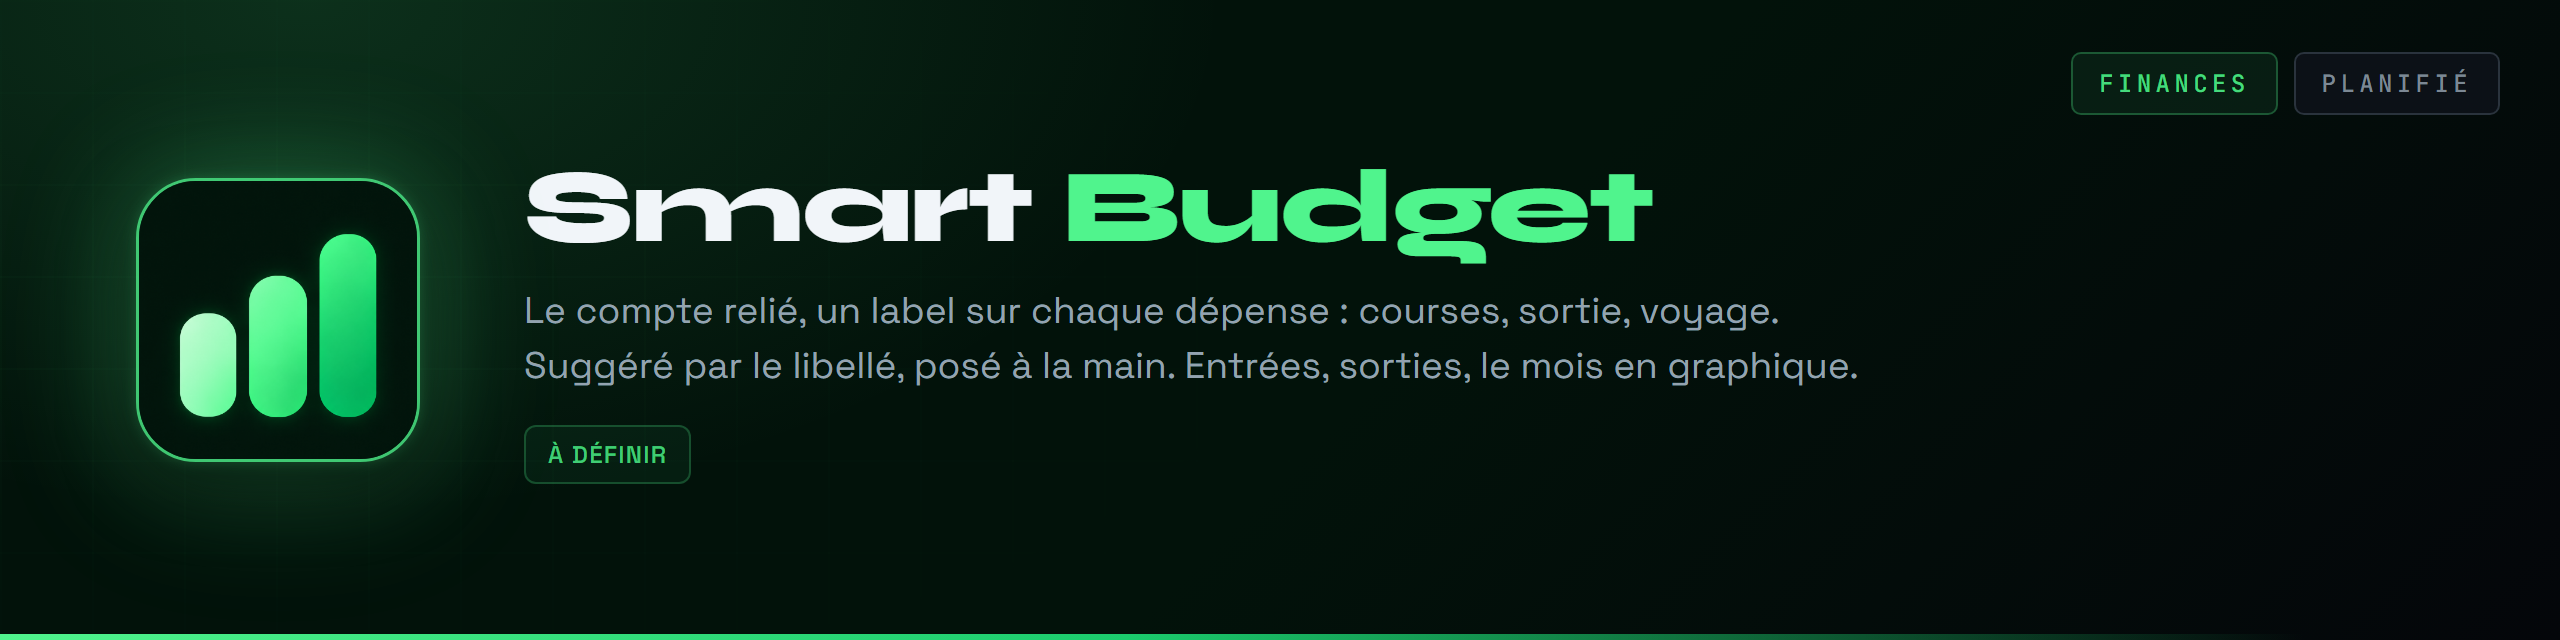
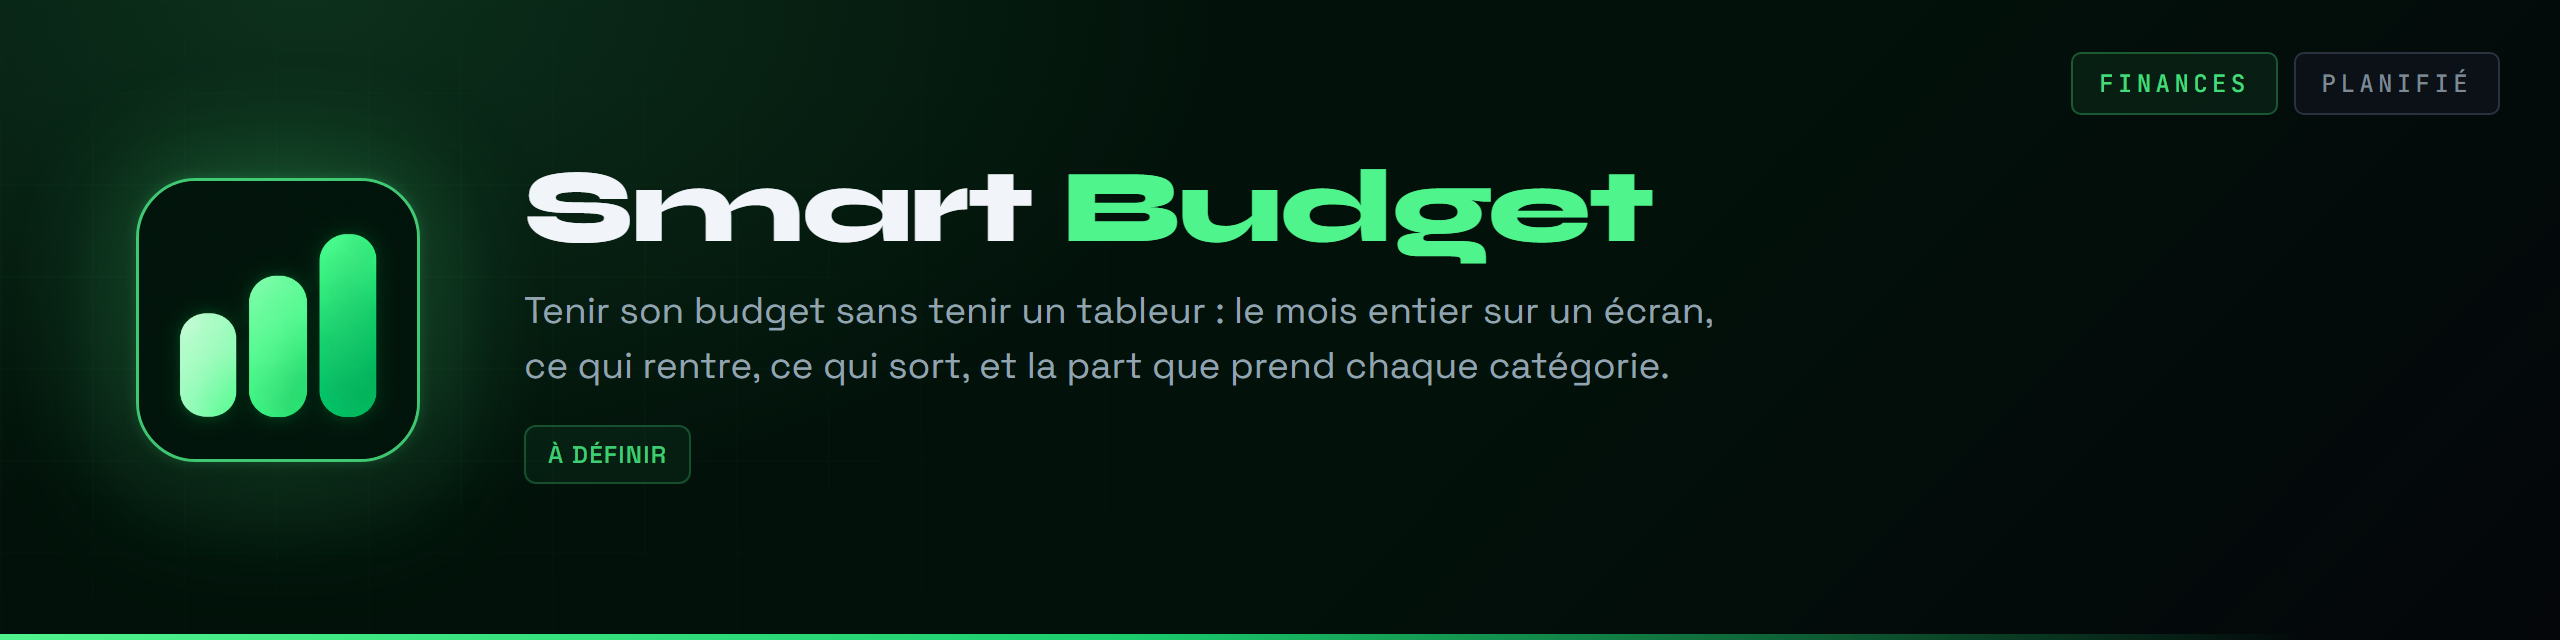
docs: Smart Budget dit ce qu'il apporte, pas comment il marche
Les versions précédentes décrivaient la mécanique : le compte relié, le
label posé, le libellé qui suggère. Personne ne choisit un outil pour sa
plomberie. La carte nomme donc la contrainte qu'il fait disparaître, le
tableur qu'on ne tient jamais, puis ce qu'on voit à la place.

Claude-Session: https://claude.ai/code/session_011hwWL8vXtMznbtwVp8pGZK

Changed region(s): [[0.1875, 0.4688, 0.7188, 0.625]]

diff --git a/README.md b/README.md
@@ -39,7 +39,7 @@ Je m'intéresse aux postes en **cybersécurité**, **infrastructure**, **sécuri
 <a href="https://github.com/Cybertrist/KyrlCut"><img src="docs/projets/kyrlcut.png" alt="KyrlCut, prise de rendez-vous pour un salon de coiffure, dépôt privé" width="49.8%"></a><a href="https://github.com/Cybertrist/BodyCount"><img src="docs/projets/bodycount.png" alt="BodyCount, suivi de séances de sport" width="49.8%"></a>
 <a href="https://github.com/Cybertrist/GoMuscu"><img src="docs/projets/gomuscu.png" alt="GoMuscu, bot Discord qui suit les séances de la salle, tient les comptes et relance ceux qui sèchent" width="49.8%"></a><a href="https://github.com/Cybertrist/Basicfit-Coach"><img src="docs/projets/bf-coach.png" alt="Basic-Fit Coach, bot Discord privé qui lit l'export de compte Basic-Fit, heatmap, séries et horaires, et sept calculs de salle" width="49.8%"></a>
 <a href="https://github.com/Cybertrist/Basicfit-Securite"><img src="docs/projets/bf-securite.png" alt="Basic-Fit Sécurité, bot Discord privé de modération, douze commandes et un rôle de mute défini depuis Discord" width="49.8%"></a><a href="https://github.com/Cybertrist/Basicfit-Manager"><img src="docs/projets/bf-manager.png" alt="Basic-Fit Manager, bot Discord privé d'accueil et de billetterie, tickets ouverts au menu, rôle donné à l'arrivée, guide en message privé" width="49.8%"></a>
-<img src="docs/projets/cybersas.png" alt="CyberSas, réseau, en cours. Reverse proxy et VPN auto-hébergés : un point d'entrée unique, terminaison TLS, et un tunnel privé pour le reste" width="49.8%"><img src="docs/projets/smartbudget.png" alt="Smart Budget, finances, planifié. Le compte relié, un label sur chaque dépense : courses, sortie, voyage. Suggéré par le libellé, posé à la main. Entrées, sorties, le mois en graphique" width="49.8%">
+<img src="docs/projets/cybersas.png" alt="CyberSas, réseau, en cours. Reverse proxy et VPN auto-hébergés : un point d'entrée unique, terminaison TLS, et un tunnel privé pour le reste" width="49.8%"><img src="docs/projets/smartbudget.png" alt="Smart Budget, finances, planifié. Tenir son budget sans tenir un tableur : le mois entier sur un écran, ce qui rentre, ce qui sort, et la part que prend chaque catégorie" width="49.8%">
 </p>
 
 <img src="docs/notes/prive.png" alt="Dépôts privés. KyrlCut est un livrable client, son code appartient à celui qui l'a commandé. Les trois bots Basic-Fit servent un vrai serveur Discord et lisent des exports de compte : identifiants de salons et données personnelles n'ont rien à faire en public. Leurs cartes mènent bien au dépôt, mais GitHub répondra 404 à qui n'y a pas accès. Chaque bannière porte sa catégorie, et son état quand le dépôt n'existe pas encore." width="100%">
@@ -48,7 +48,7 @@ Je m'intéresse aux postes en **cybersécurité**, **infrastructure**, **sécuri
 
 <img src="docs/chantier/cybersas.png" alt="CyberSas, reverse proxy et VPN auto-hébergés, en cours. Exposer ce qui doit l'être et rien d'autre : un point d'entrée unique, terminaison TLS, et un tunnel privé pour le reste. Nginx, WireGuard, Debian, auto-hébergé." width="100%">
 
-<img src="docs/chantier/smartbudget.png" alt="Smart Budget, planifié. Le compte relié, un label sur chaque dépense : courses, sortie, voyage. Suggéré par le libellé, posé à la main. Entrées, sorties, le mois en graphique." width="100%">
+<img src="docs/chantier/smartbudget.png" alt="Smart Budget, planifié. Tenir son budget sans tenir un tableur : le mois entier sur un écran, ce qui rentre, ce qui sort, et la part que prend chaque catégorie." width="100%">
 
 <a href="https://github.com/Cybertrist/BodyCount"><img src="docs/chantier/bodycount.png" alt="BodyCount, à finir. Le chiffrement de la base manque encore : SQLCipher et clé dérivée du Keystore. La biométrie verrouille l'interface, elle ne chiffre rien. Restent aussi l'export chiffré et les écrans de statistiques." width="100%"></a>
 
